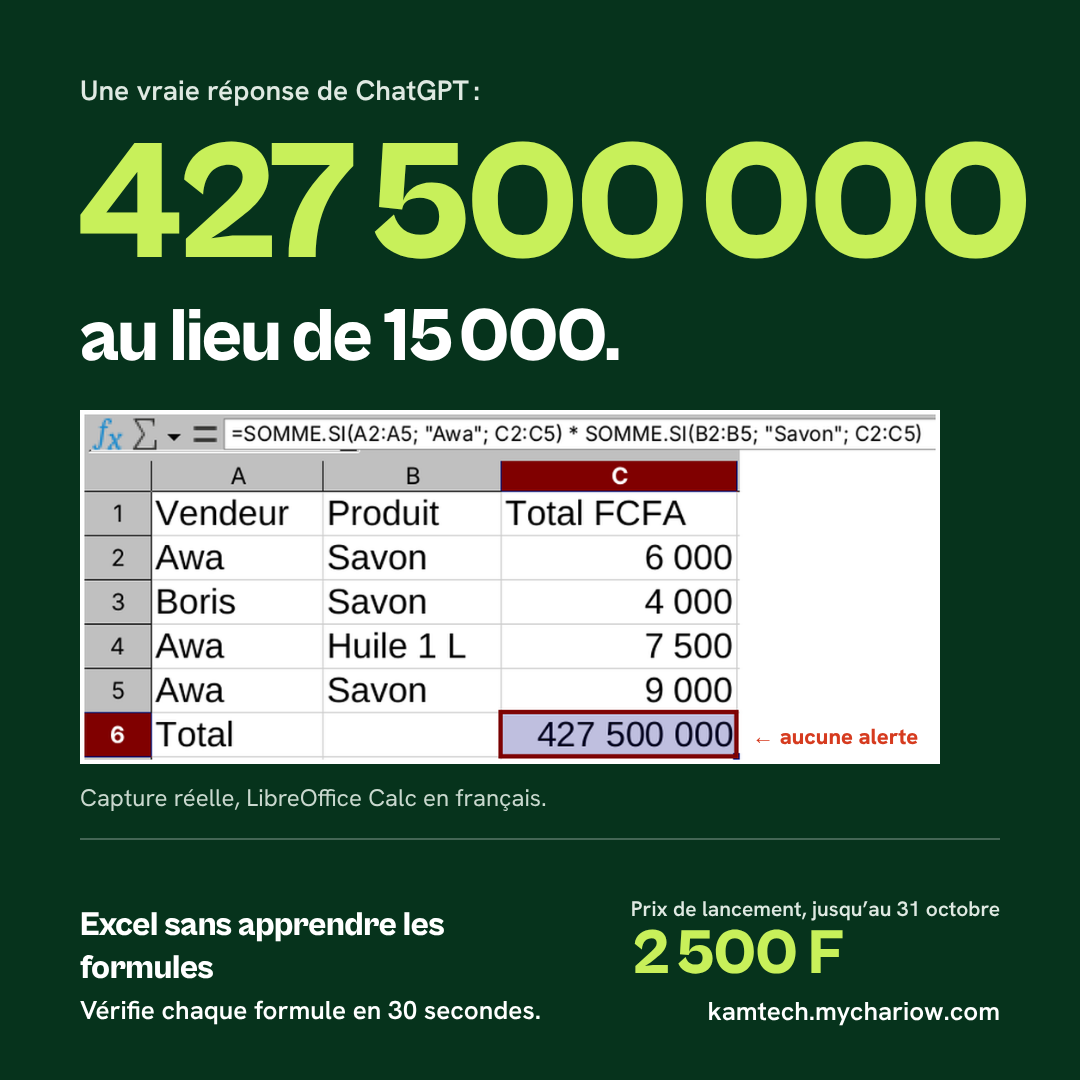
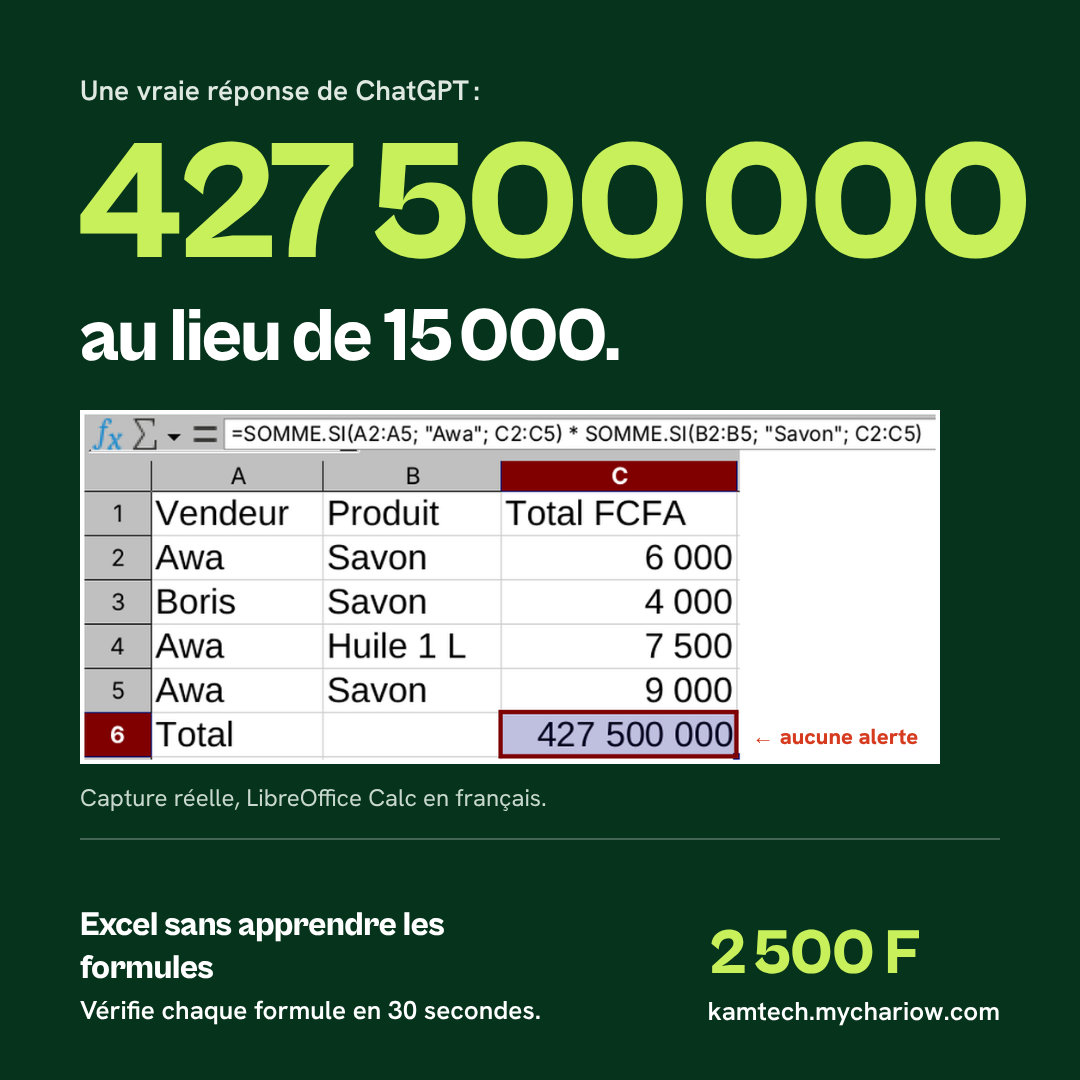
Visuels : prix fixe 2 500 F (sans mention de lancement), vignette v2 sans doublon
Claude-Session: https://claude.ai/code/session_01T8L22svZaEaGYSwza4q3Yc

Changed region(s): [[0.5806, 0.825, 0.9167, 0.9167]]

diff --git a/produits/ebooks/excel/boutique/visuels/src/story.html b/produits/ebooks/excel/boutique/visuels/src/story.html
@@ -14,7 +14,7 @@ h1{position:absolute;left:80px;top:270px;font-size:128px;line-height:.96;color:v
 .home{display:none}</style></head><body>
 <h1>35 prompts<br>prêts à copier.</h1>
 <div class="g"><div class="l"><p>Tu copies, tu colles dans l’IA, tu vérifies.</p><p>227 pages<br>7 modèles Excel en FCFA</p></div>
-<div class="lan">Prix de lancement<br>jusqu’au 31 octobre</div><div class="p">2{f}500&nbsp;F</div><div class="u">kamtech.mychariow.com</div></div>
+<div class="p">2{f}500&nbsp;F</div><div class="u">kamtech.mychariow.com</div></div>
 <div class="w"><div class="phone" style="position:relative"><div class="screen">{{statusbar}}
 <div class="appbar"><span class="bk"></span><span>Excel sans formules.pdf</span><span class="pgn">55 / 227</span></div>
 <div class="scroll"><img class="pg" src="img/n54-054.png" style="margin-top:-387px"><img class="pg" src="img/n55-055.png"><img class="pg" src="img/n56-056.png"></div><div class="home"></div></div></div></div>

diff --git a/produits/ebooks/excel/boutique/visuels/src/affiche-erreur.html b/produits/ebooks/excel/boutique/visuels/src/affiche-erreur.html
@@ -19,5 +19,5 @@ body{width:1080px;height:1080px;background:var(--vf);color:#fff;position:relativ
 <p class="m t">au lieu de 15{f}000.</p>
 <div class="cap"><img src="img/err427.png" alt=""><span class="al">← aucune alerte</span></div>
 <p class="src">Capture réelle, LibreOffice Calc en français.</p>
-<div class="pied"><div class="a"><b>Excel sans apprendre les formules</b>Vérifie chaque formule en 30 secondes.</div><div><div class="lan">Prix de lancement, jusqu’au 31 octobre</div><div class="p">2{f}500&nbsp;F</div><div class="u">kamtech.mychariow.com</div></div></div>
+<div class="pied"><div class="a"><b>Excel sans apprendre les formules</b>Vérifie chaque formule en 30 secondes.</div><div><div class="p">2{f}500&nbsp;F</div><div class="u">kamtech.mychariow.com</div></div></div>
 </body></html>

diff --git a/produits/ebooks/excel/boutique/visuels/src/vignette-v2.html b/produits/ebooks/excel/boutique/visuels/src/vignette-v2.html
@@ -29,9 +29,9 @@ body.seo .jusq{top:1090px}
 <div class="fich" style="top:724px"><b>.xlsx</b><span>4-Tontine</span></div>
 <div class="livre"><div class="ombre"></div><div class="pages"></div><img src="img/n1-001.png" alt=""><div class="tr"></div><div class="charn"></div></div>
 <p class="plus">+ 7 modèles Excel</p>
-<p class="lab">Prix de lancement</p>
+<p class="lab">E-book PDF</p>
 <div class="prix">2{f}500&nbsp;F</div>
-<p class="jusq">jusqu’au 31 octobre</p>
+<p class="jusq">227 pages</p>
 <p class="url2">kamtech.mychariow.com</p>
 <script>if(location.hash==='#seo')document.body.classList.add('seo')</script>
 </body></html>
